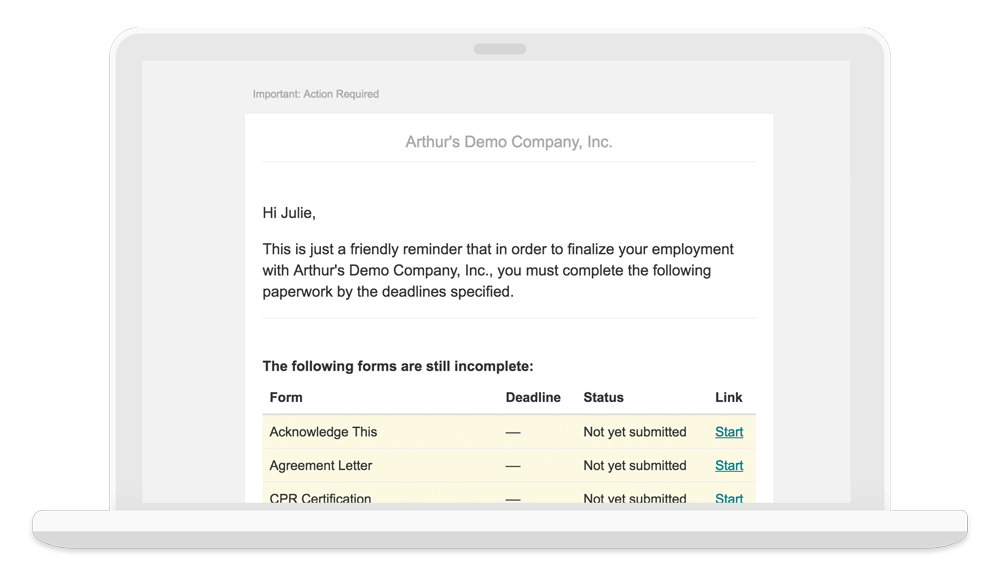
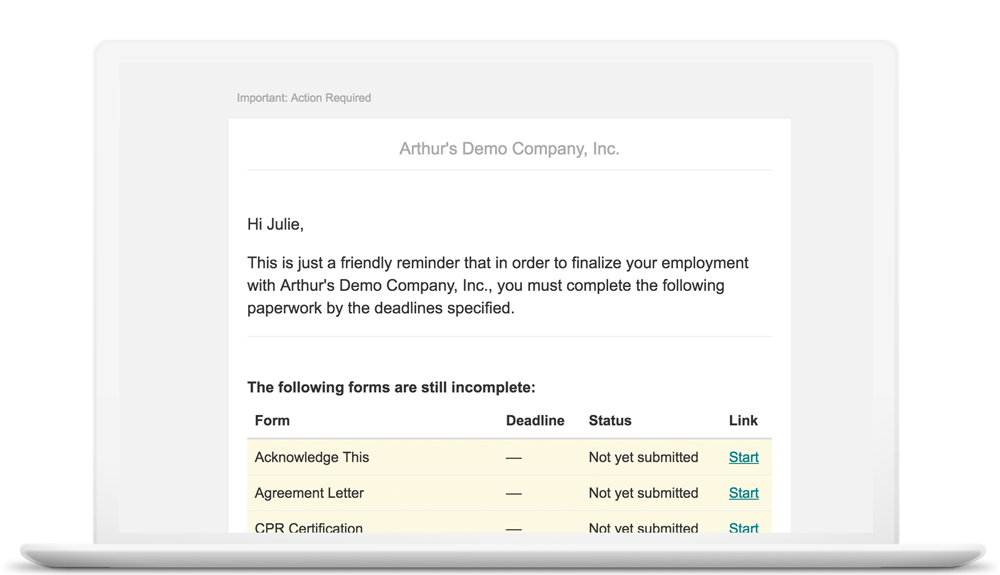
Replace demo gifs with new laptop background and without GifMock watermark

diff --git a/themes/wb-site-theme/layouts/shortcodes/why_workbright_accordion.html b/themes/wb-site-theme/layouts/shortcodes/why_workbright_accordion.html
@@ -24,7 +24,7 @@
     <div id="collapseTwo" class="collapse" role="tabpanel" aria-labelledby="headingTwo">
       <div class="card-block">
         Field validation throughout the WorkBright platform ensures your files are already cleaner when they are submitted. If an error creeps through, you can easily reject the form and fire off an automatic notification to the employee to correct the error!
-        <img src="/images/demos/reject-form.gif" width=100% />
+        <img src="/images/demos/rejection.gif" width=100% />
       </div>
     </div>
   </div>
@@ -54,7 +54,7 @@
     <div id="collapseFour" class="collapse" role="tabpanel" aria-labelledby="headingFour">
       <div class="card-block">
         With best-in-class security, automated field validation, document correction workflows and easily reportable employee information you can rest easy knowing your employee files are ready for a regulatory audit at any moment. No more checklists and filing cabinets!
-        <img src="/images/demos/select-rejected-submission.gif" width="100%"/>
+        <img src="/images/demos/staff-page.gif" width="100%"/>
       </div>
     </div>
   </div>
@@ -70,7 +70,7 @@
     <div id="collapseFive" class="collapse" role="tabpanel" aria-labelledby="headingFive">
       <div class="card-block">
         Managing employee communications and forms via your email inbox (or even worse, the physical mail) is a security and organizational nightmare! Move all employee onboarding processes into WorkBright where a secure audit trail tracks every interaction. 
-        <img src="/images/demos/inbox-accept.gif" width=100% />
+        <img src="/images/demos/inbox.gif" width=100% />
       </div>
     </div>
   </div>
